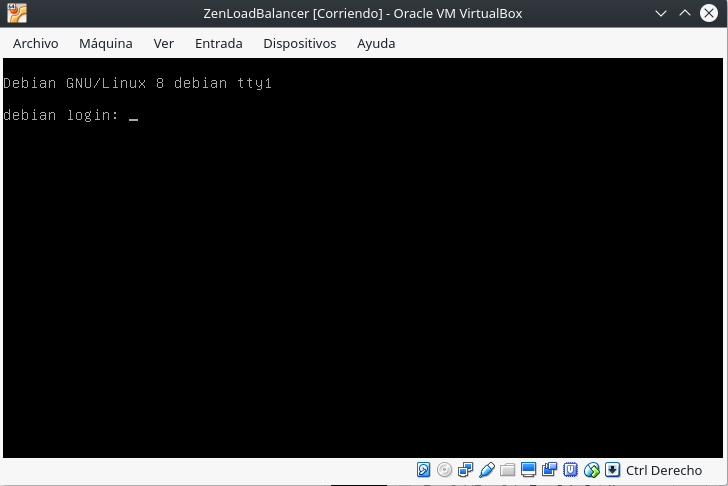
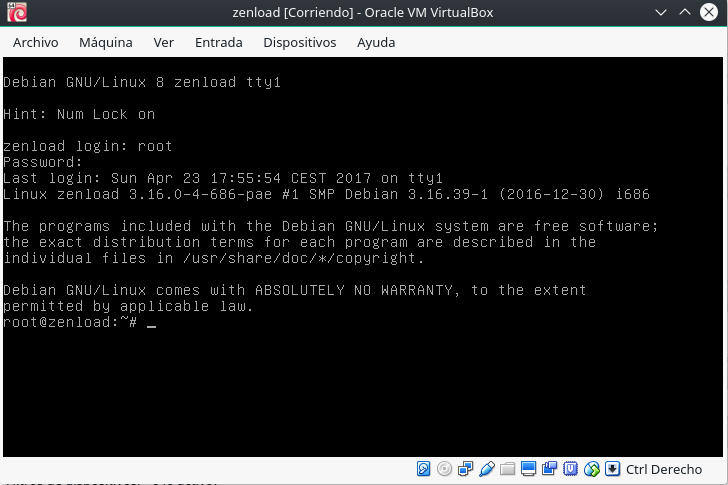
image post-installation

diff --git a/trabajos_de_clase/tema4/README.md b/trabajos_de_clase/tema4/README.md
@@ -54,7 +54,11 @@ Una vez que hemos descargado el archivo .iso, podemos crear una nueva máquina v
 
 ![zen1](zen1.png)
 
+Tras darle a instalar, comenzará la instalación del sistema, que estará basado en Debian. En esta instalación, es obligatorio establecer una IP estática, una máscara y un _Gateway_ por defecto. 
 
+Al terminar la configuración, podremos iniciar sesión con el usuario `root` y la contraseña que hayamos establecido durante el proceso de instalación.
+
+![zen2](zen2.png)
 
 ---
 
